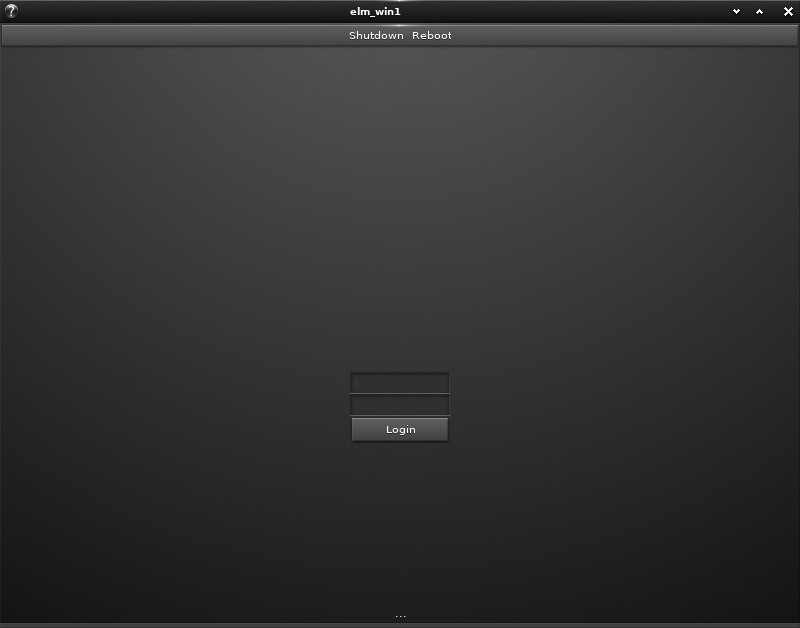
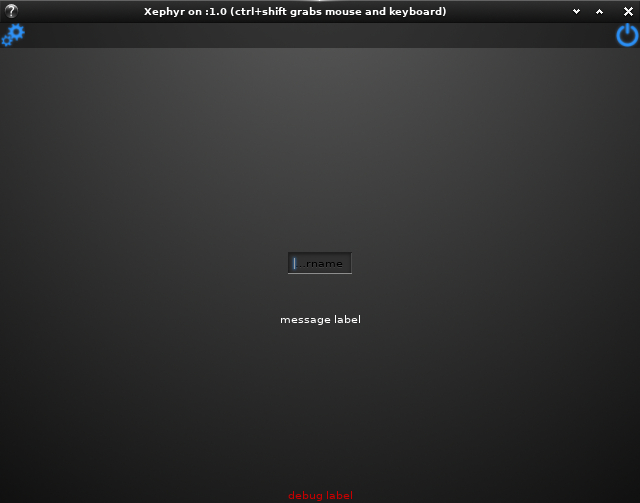
time to show something :)

diff --git a/README.md b/README.md
@@ -2,6 +2,8 @@ Enter
 ===
 A lightdm elm greeter for e
 
-Realy experimental state!<br>
-API: https://lazka.github.io/pgi-docs/#LightDM-1
+![Screenshot](https://github.com/wfx/enter/blob/master/data/shot.png)
+
+Works now but have not all planed feature's implemented.<br>
+
 
